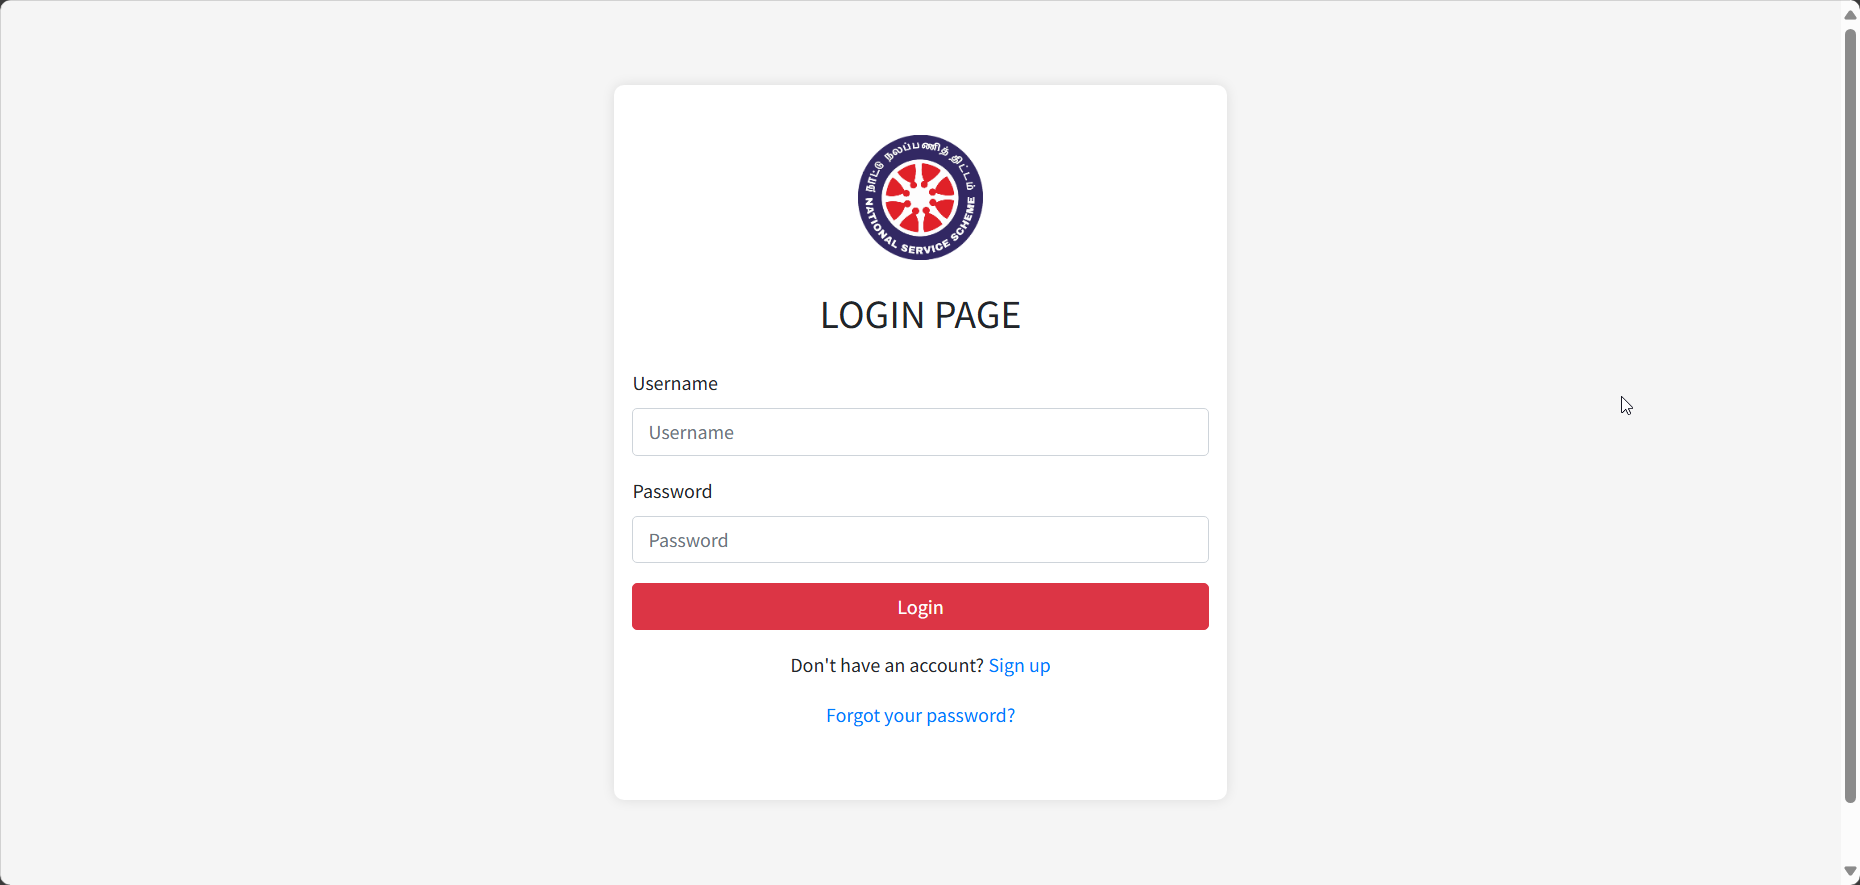
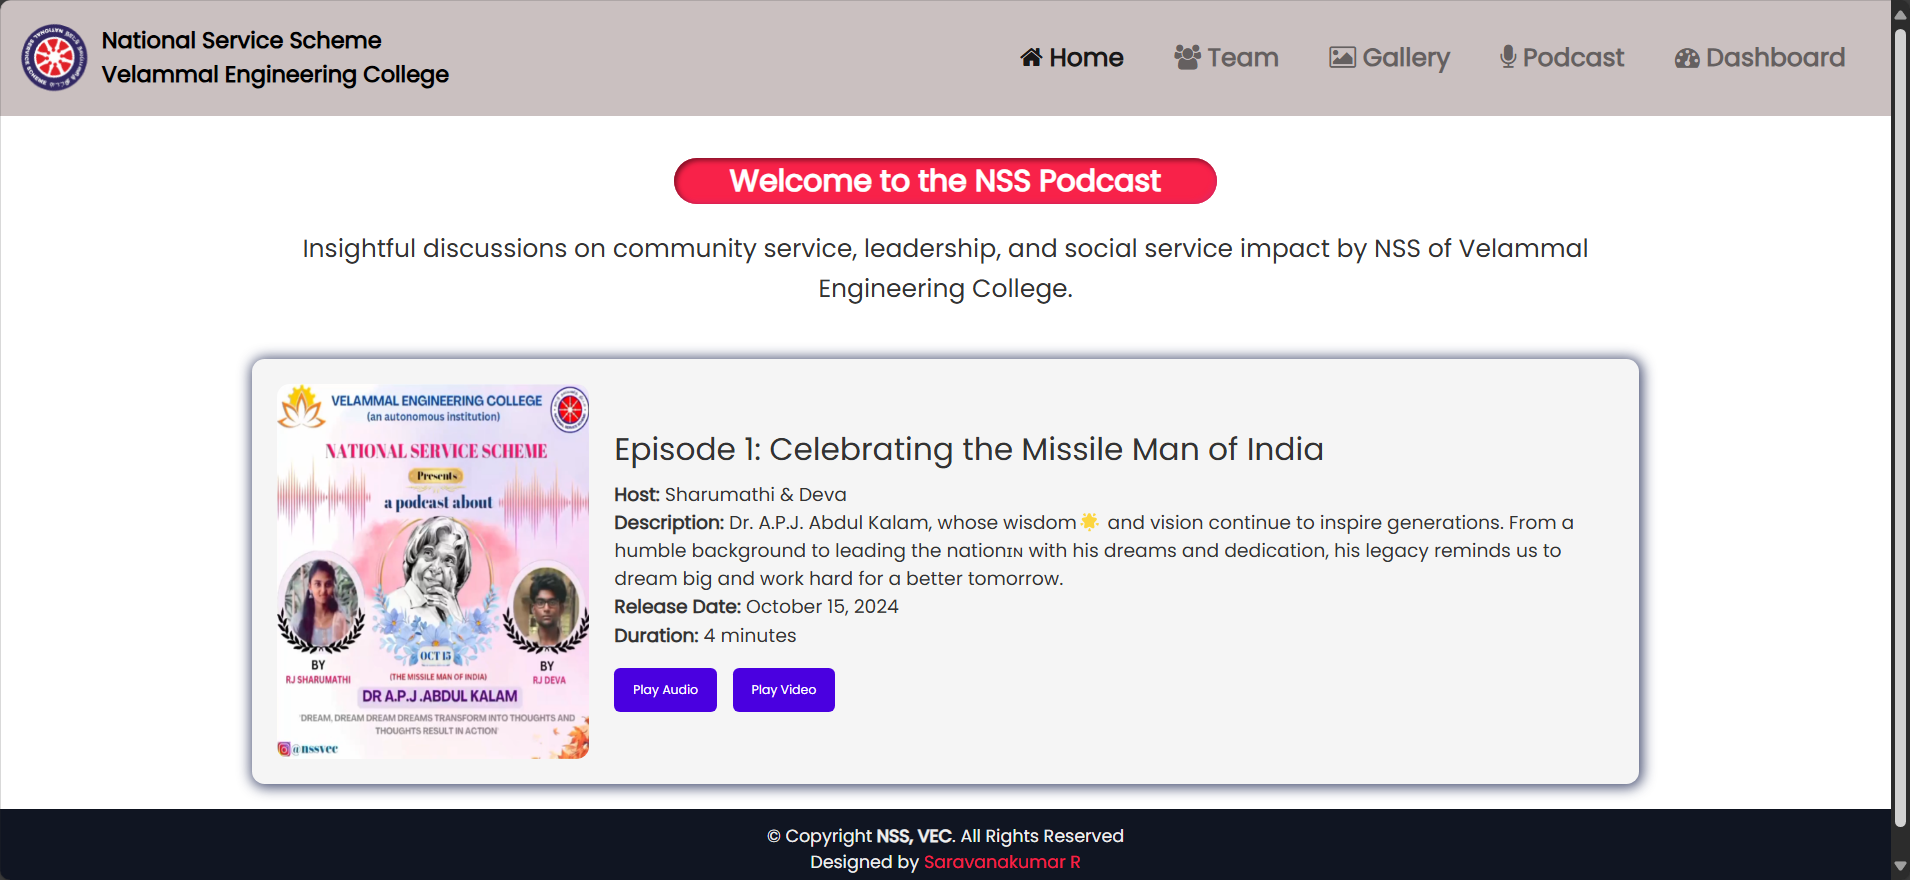
refactor: Update publications and projects data; add publication type and enhance project descriptions

diff --git a/src/data/projects.ts b/src/data/projects.ts
@@ -329,41 +329,23 @@ const projects = [
         img: '/projects/NSS/1.png'
       },
       {
-        name: 'Login Page',
+        name: 'About NSS Page',
         description:
-          'The "Login" screen allows users to sign in to their accounts, providing access to personalized features and content.',
+          'The "About NSS" page provides an overview of the NSSVEC unit, its mission, and its objectives.',
+        img: '/projects/NSS/4.png'
+      },
+      {
+        name: 'NSS Podcast Page',
+        description:
+          'The "NSS Podcast" page showcases the latest podcasts, enabling users to listen to and download the podcasts.',
         img: '/projects/NSS/2.png'
       },
       {
-        name: 'Student Dashboard',
+        name: 'NSS Team Page',
         description:
-          'The "Student Dashboard" screen showcases a list of upcoming events, allowing students to register for events and access resources.',
+          'The "NSS Team" page displays the NSSVEC team members, providing information about each member of Coordination Team.',
         img: '/projects/NSS/3.png'
-      },
-      {
-        name: 'Admin Dashboard',
-        description:
-          'The "Admin Dashboard" screen provides administrators with tools to manage events, view registrations, and access student data.',
-        img: '/projects/NSS/5.png'
-      },
-      {
-        name: 'Volunteer List Page',
-        description:
-          'The "Volunteer List" screen displays a list of volunteers, providing information about each volunteer and their respective roles.',
-        img: '/projects/NSS/6.png'
-      },
-      {
-        name: 'Event Upload Page',
-        description:
-          'The "Event Upload" screen allows administrators & teachers to upload new events, providing details and information for students to register.',
-        img: '/projects/NSS/8.png'
-      },
-      {
-        name: 'Newsletters Page',
-        description:
-          'The "Newsletters" screen features a collection of newsletters, providing updates and information about NSSVEC activities and events.',
-        img: '/projects/NSS/9.png'
-       },
+      }
     ],
     team: [
       {

diff --git a/src/components/Publications/PublicationCard.tsx b/src/components/Publications/PublicationCard.tsx
@@ -9,6 +9,7 @@ export function PublicationCard({
   title,
   authors,
   publicationDate,
+  publicationType,
   source,
   description,
   link,
@@ -29,6 +30,7 @@ export function PublicationCard({
       <S.PublicationAuthors><b>{currentLang === 'ta' ? 'ஆசிரியர்கள்: ' : 'Authors: '}</b>{authors}</S.PublicationAuthors>
       <S.PublicationDate><b>{currentLang === 'ta' ? 'வெளியீட்டு தேதி: ' : 'Publication Date: '}</b>{publicationDate}</S.PublicationDate>
       <S.PublicationSource><b>{currentLang === 'ta' ? 'வெளியீடு: ' : 'Published By: '}</b>{source}</S.PublicationSource>
+      <S.PublicationType><b>{currentLang === 'ta' ? 'வெளியீட்டு வகை: ' : 'Publication Type: '}</b>{publicationType}</S.PublicationType>
       <S.PublicationLink href={link} target="_blank">
         {currentLang === 'ta' ? 'மேலும் வாசிக்க' : 'Read more'}
       </S.PublicationLink>

diff --git a/src/data/publications.ts b/src/data/publications.ts
@@ -11,13 +11,18 @@ const publications = [
       },
 
       authors: {
-        en: 'Dr. Mary Joans S, Saravanakumar R',
-        ta: 'டாக்டர் மேரி ஜோன்ஸ் எஸ், சரவணகுமார்',
+        en: 'Dr. Mary Joans S, Saravanakumar R, Dilip Kumar, Yogeshwaran',
+        ta: 'டாக்டர் மேரி ஜோன்ஸ் எஸ், சரவணகுமார் ரா, திலிப் குமார், யோகேஷ்வரன்',
       },
 
       publicationDate: {
         en: 'Yet to be published',
         ta: 'இன்னும் வெளியிடப்படவில்லை',
+      },
+
+      publicationType: {
+        en: 'Conference',
+        ta: 'மாநாடு',
       },
 
       source: {

diff --git a/src/components/Publications/index.tsx b/src/components/Publications/index.tsx
@@ -39,6 +39,7 @@ export function Publications() {
               description={publication.description[currentLang]}
               authors={publication.authors[currentLang]}
               publicationDate={publication.publicationDate[currentLang]}
+              publicationType={publication.publicationType[currentLang]}
               source={publication.source[currentLang]}
               link={publication.link} 
               id={publication.id}           

diff --git a/src/components/Publications/style.ts b/src/components/Publications/style.ts
@@ -67,6 +67,15 @@ export const PublicationSource = styled.p`
   }
 `;
 
+export const PublicationType = styled.p`
+  font-size: 1.1rem;
+  margin-bottom: 0.5rem;
+
+  @media (max-width: 768px) {
+    font-size: 1rem;
+  }
+`;
+
 export const PublicationLink = styled.a`
   font-size: 1.1rem;
   color: #0070f3;

diff --git a/src/types/Publication.ts b/src/types/Publication.ts
@@ -5,6 +5,7 @@ export type Publication = {
     title: string
     authors: string
     publicationDate: string
+    publicationType: string
     source: string
     description: string
     link: string
